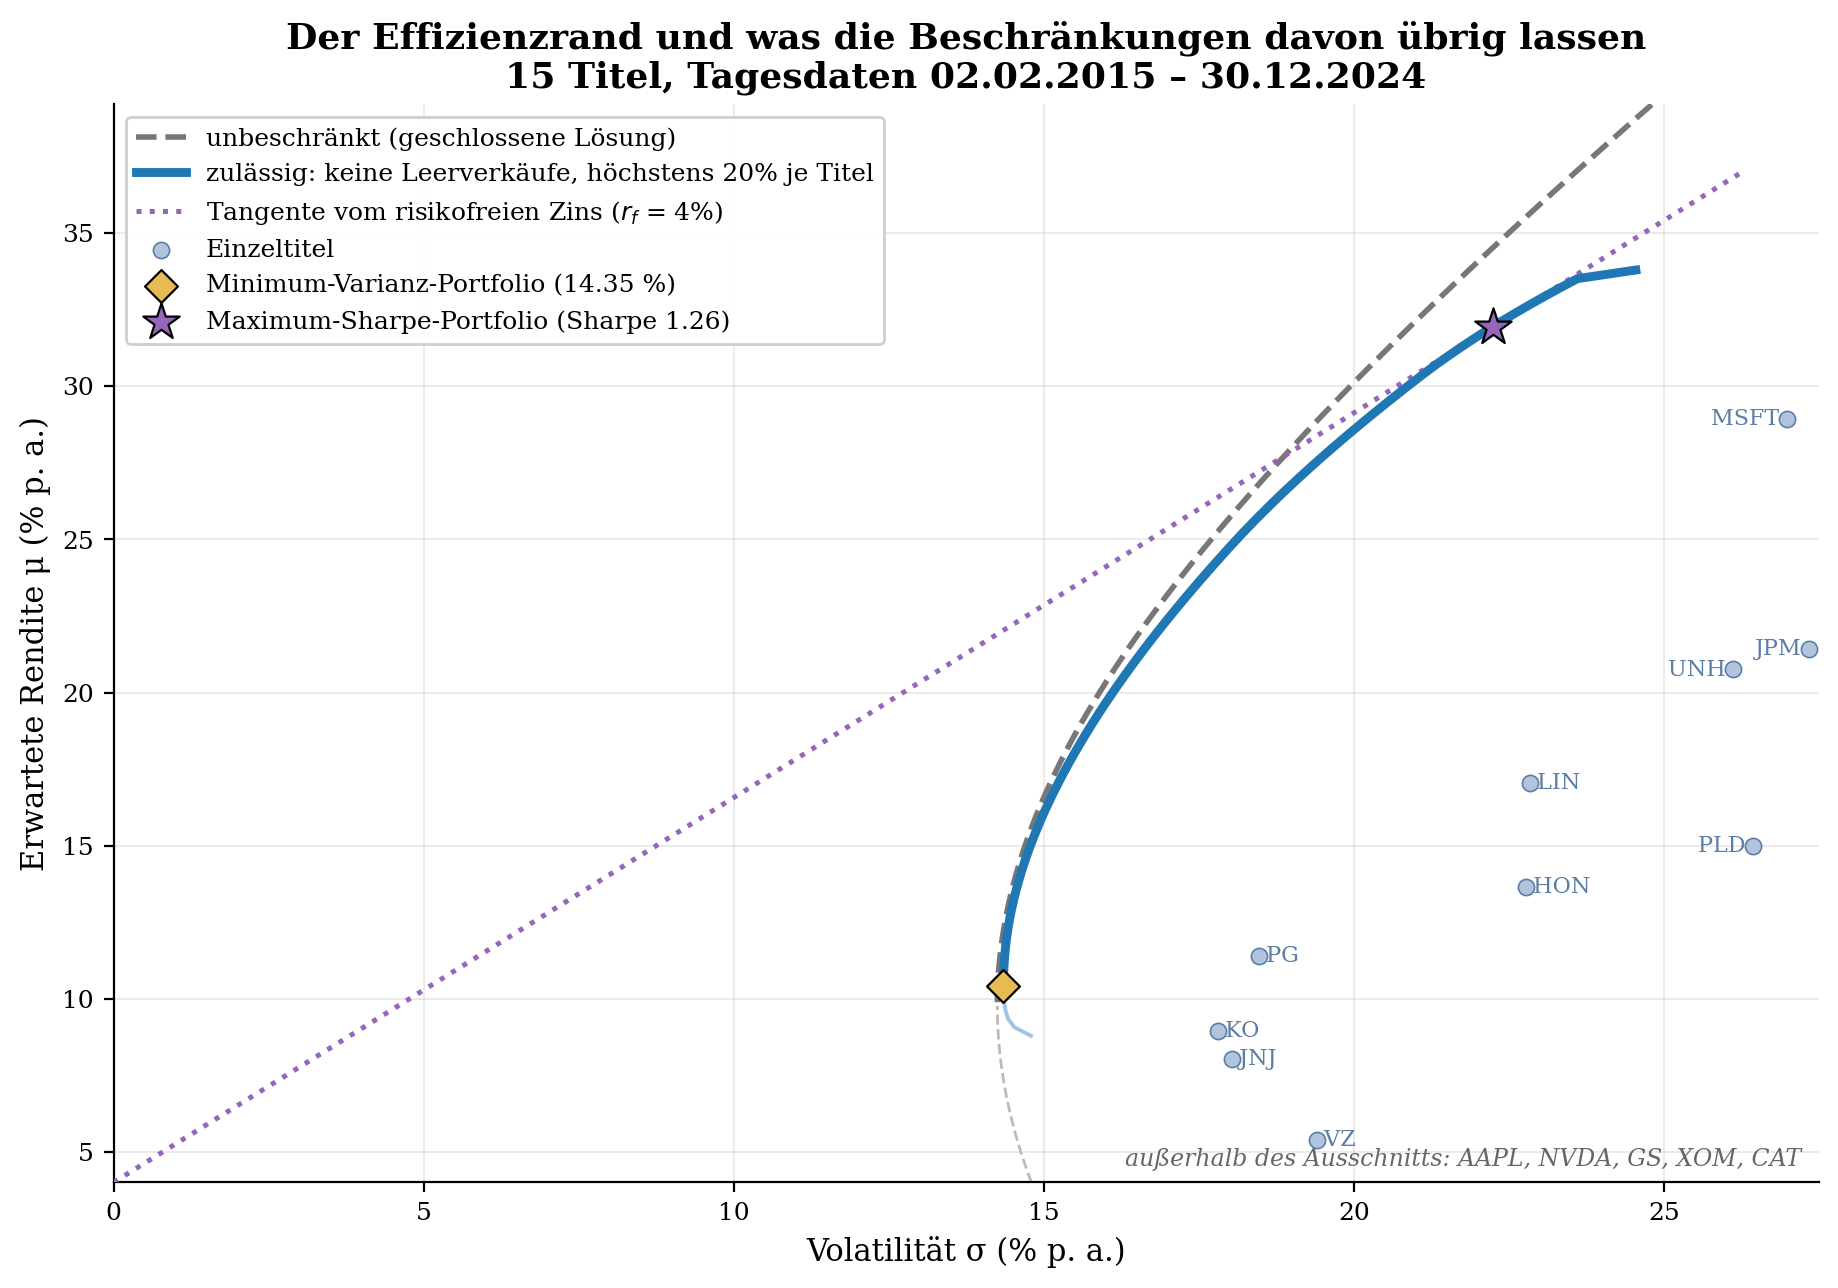
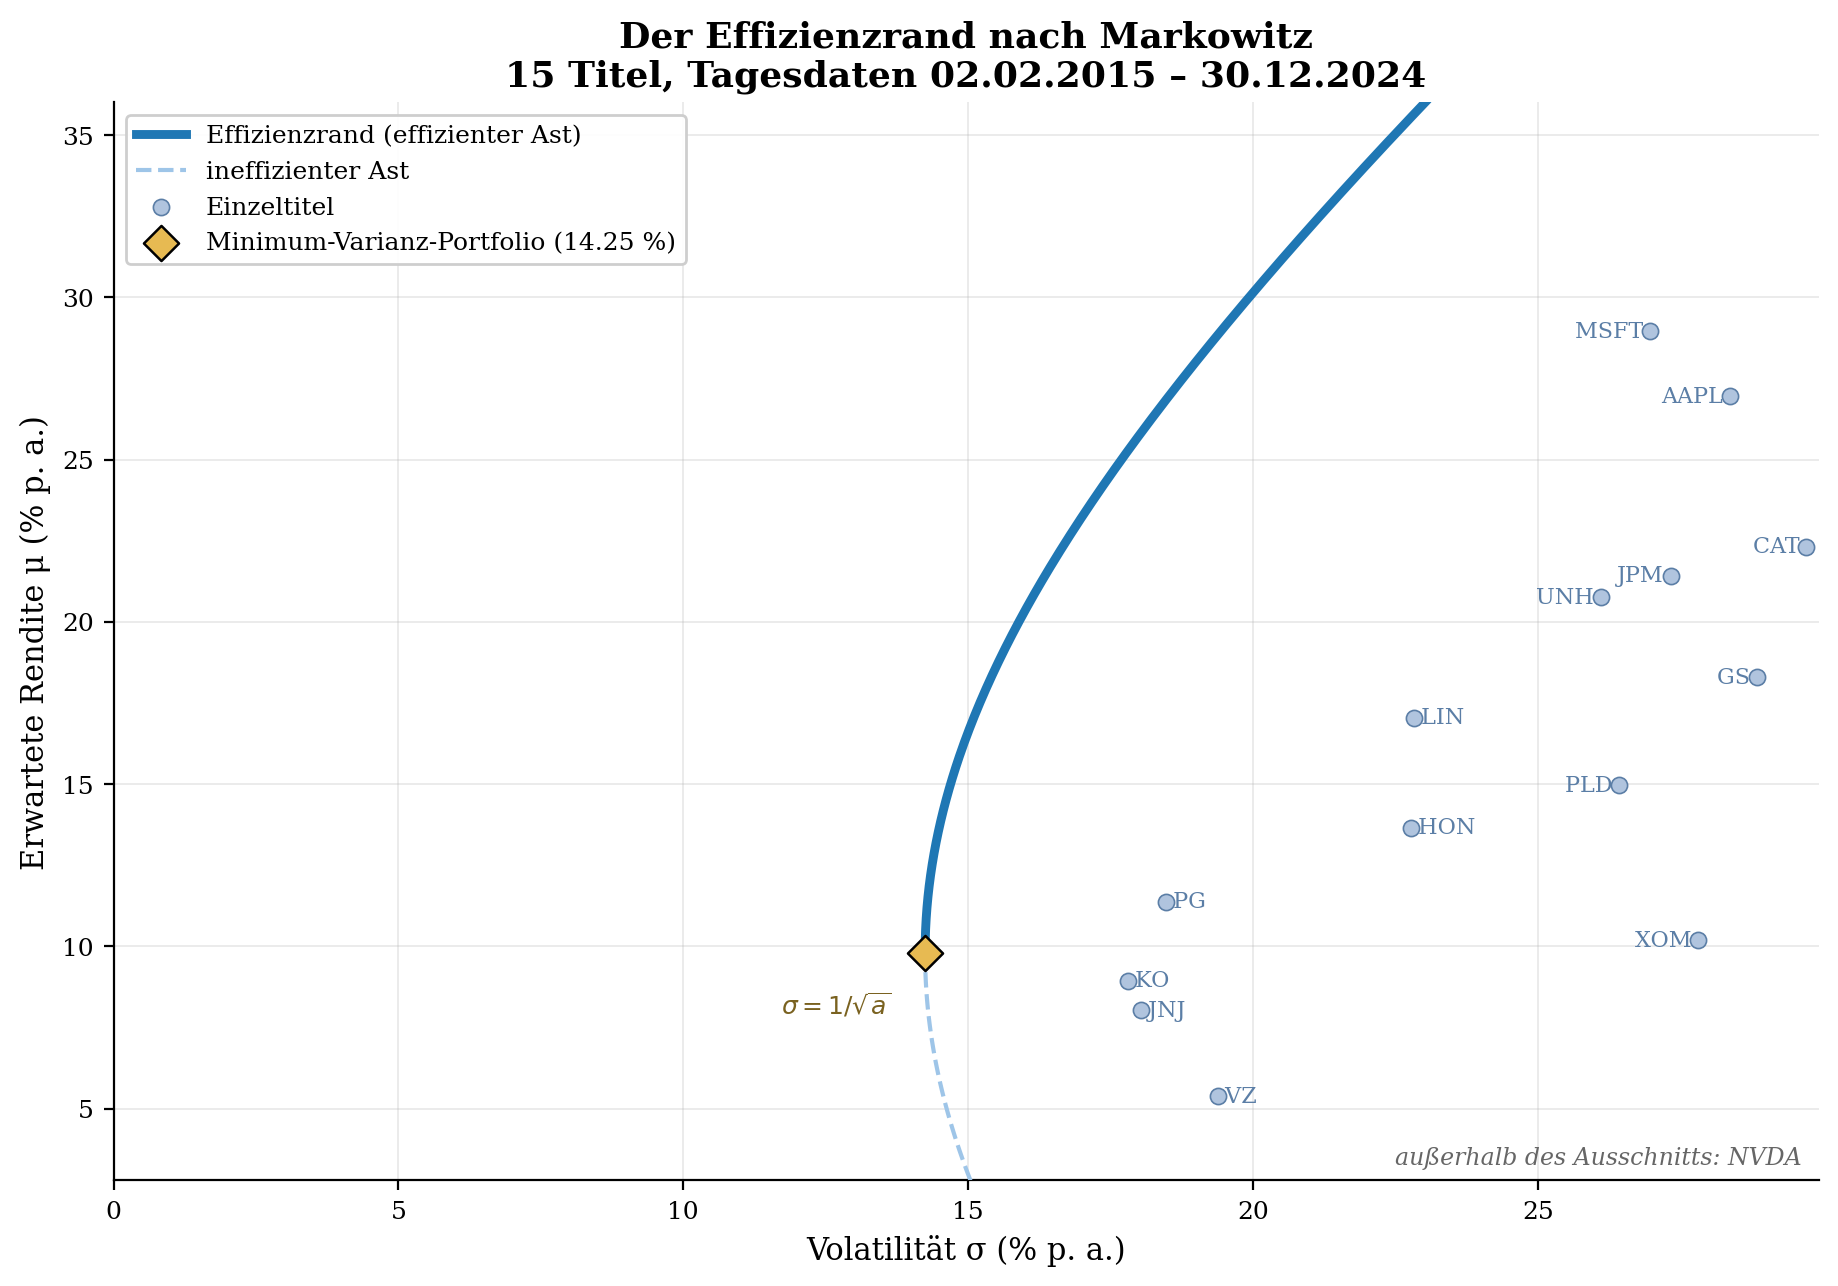
Effizienzrand in Par. 2.3 ohne Beschraenkungen darstellen
Die Abbildung zeigte bisher zwei Raender: den unbeschraenkten und den unter
long only + 20-%-Kappe. Das nahm vorweg, was der Text erst spaeter begruendet:
Par. 2.3 behandelt das klassische Markowitz-Problem, Leerverkaufsverbot und
Obergrenze werden erst in Par. 2.6 eingefuehrt — und dort nicht als technische
Randbedingung, sondern als Mittel gegen den Schaetzfehler (Jagannathan/Ma).

Die zweite Kurve trug zudem weniger, als sie versprach: Sie belegt die
Unzulaessigkeit der geschlossenen Loesung NICHT, denn die negativen Gewichte
(JPM -4,88 %, PLD -4,64 %) sind in Sigma-mu-Koordinaten gar nicht sichtbar.
Und da beide Raender fast aufeinanderliegen, haette der Unterschied im Text
erklaert werden muessen — in dem Abschnitt mit dem knappsten Budget des
Kapitels.

Jetzt: nur die Hyperbel der geschlossenen Loesung, effizienter Ast kraeftig,
ineffizienter duenn, das Minimum-Varianz-Portfolio als linkester Punkt mit der
Beschriftung sigma = 1/sqrt(a) — direkt anschlussfaehig an die Formel im Text.

Der Vergleich bleibt als Schalter erhalten (show_constrained=True), falls er
fuer Par. 2.6 oder den Anhang gebraucht wird.

Keine Kapitalmarktlinie mehr: Das Tangentialportfolio dieser Daten liegt bei
52,8 % Volatilitaet und verlangt Leerverkaeufe bis -79 %. Als Zahl im Text sagt
das mehr als eine Linie, deren Beruehrpunkt ausserhalb des Bildes liegt.

Nebenwirkung: Der Ausschnitt richtet sich jetzt nach der Kurve statt nach dem
[…]

diff --git a/portfolio/theory_plots.py b/portfolio/theory_plots.py
@@ -1,9 +1,9 @@
 """
-Die drei Theorie-Abbildungen zu Kapitel 2 der Seminararbeit.
+Die vier Theorie-Abbildungen zu Kapitel 2 der Seminararbeit.
 
 FÜR EINSTEIGER — WAS MACHT DIESE DATEI?
 Die übrigen Abbildungen des Projekts (in ``plots.py``) zeigen ERGEBNISSE:
-wie sich die vier Strategien geschlagen haben. Die drei Bilder hier zeigen
+wie sich die vier Strategien geschlagen haben. Die Bilder hier zeigen
 dagegen keine Strategie, sondern EIGENSCHAFTEN DER KURSDATEN SELBST — also
 Dinge, die schon feststehen, bevor irgendeine Strategie gerechnet wird.
 
@@ -26,6 +26,12 @@ mit denen später auch der Backtest läuft:
       Für jede Aktie die geschätzte Jahresrendite samt 95-%-Konfidenz-
       intervall. Zeigt, wie ungenau Erwartungswerte selbst aus zehn
       Jahren Tagesdaten geschätzt sind — das Kernproblem der Arbeit.
+
+  17  Effizienzrand         → § 2.3, Abbildung 2 der Arbeit
+      Die Hyperbel der geschlossenen Lösung mit dem Minimum-Varianz-
+      Portfolio als linkestem Punkt. Bewusst OHNE die Beschränkungen der
+      Arbeit: § 2.3 behandelt das klassische Problem, Leerverkaufsverbot
+      und Obergrenze folgen erst in § 2.6.
 
 WARUM DIESE DATEI ÜBERHAUPT ENTSTAND
 Die drei Bilder lagen bis zum 17.08.2026 nur als fertige PNG-Dateien im
@@ -291,7 +297,7 @@ def plot_estimation_uncertainty(asset_returns: pd.DataFrame,
 
 def plot_efficient_frontier_theory(asset_returns: pd.DataFrame,
                                    output_path: str,
-                                   rf: float = RISK_FREE_RATE,
+                                   show_constrained: bool = False,
                                    max_weight: float = 0.20,
                                    n_points: int = 90) -> None:
     """Abbildung 17 → Abbildung 2 der Arbeit (§ 2.3): der Effizienzrand.
@@ -299,147 +305,119 @@ def plot_efficient_frontier_theory(asset_returns: pd.DataFrame,
     ACHTUNG — NICHT verwechseln mit ``plot_efficient_frontier`` in plots.py.
     Jene Abbildung (04) gehört zum ERGEBNISTEIL: Sie zeichnet die Schätzungen
     des letzten Backtest-Monats und trägt die vier Strategien ein. Diese hier
-    ist eine reine THEORIEABBILDUNG: derselbe Auswertungszeitraum wie der übrige
-    Kapitel 2, keine Strategien, keine Kennzahlenlegende.
+    ist eine reine THEORIEABBILDUNG zum allgemeinen Markowitz-Problem: derselbe
+    Auswertungszeitraum wie der übrige Kapitel 2, keine Strategien, keine
+    Kennzahlenlegende.
 
-    Gezeigt werden zwei Ränder, und ihr Unterschied ist die Pointe von § 2.3:
+    GEZEIGT WIRD DIE GESCHLOSSENE LÖSUNG, also der Rand unter der einzigen
+    Nebenbedingung, dass die Gewichte sich zu eins summieren:
 
-    1. Der UNBESCHRÄNKTE Rand (gestrichelt) folgt der geschlossenen Lösung
-           sigma^2(mu) = (a mu^2 - 2 b mu + c) / d
-       mit a = 1'S^-1 1, b = 1'S^-1 mu, c = mu'S^-1 mu, d = ac - b^2.
-       Er ist eine Hyperbel und läuft nach oben wie nach unten unbegrenzt weiter.
+        sigma^2(mu) = (a mu^2 - 2 b mu + c) / d
+        mit a = 1'S^-1 1,  b = 1'S^-1 mu,  c = mu'S^-1 mu,  d = ac - b^2
 
-    2. Der ZULÄSSIGE Rand (durchgezogen) erfüllt zusätzlich die Beschränkungen
-       dieser Arbeit: keine Leerverkäufe und höchstens ``max_weight`` je Titel.
-       Er wird numerisch gelöst (SLSQP), weil es dafür keine geschlossene Formel
-       mehr gibt.
+    Das ist eine Hyperbel. Ihr linkester Punkt ist das Minimum-Varianz-Portfolio
+    mit sigma = 1/sqrt(a) und mu = b/a. Oberhalb davon liegen die EFFIZIENTEN
+    Portfolios (kräftig gezeichnet), unterhalb die ineffizienten (dünn): Zu jedem
+    von ihnen gibt es ein Portfolio mit gleichem Risiko und höherer Rendite.
 
-    Der auffällige Unterschied ist nicht die LAGE der Kurven — die liegen fast
-    aufeinander —, sondern ihre LÄNGE: Die Obergrenze von 20 % je Titel kappt
-    den erreichbaren Renditebereich, weil sich das Vermögen nicht mehr auf die
-    wenigen Titel mit der höchsten Rendite konzentrieren lässt.
+    WARUM OHNE BESCHRÄNKUNGEN?
+    § 2.3 behandelt das klassische Problem. Leerverkaufsverbot und Obergrenze
+    je Titel werden erst in § 2.6 eingeführt — dort als Mittel gegen den
+    Schätzfehler, nicht als technische Randbedingung. Eine Abbildung, die sie
+    vorwegnähme, erklärte in Kapitel 2 etwas, das der Text erst drei Abschnitte
+    später begründet. Wer den Vergleich dennoch braucht (etwa für § 2.6 oder den
+    Anhang), setzt ``show_constrained=True``: dann kommt der zulässige Rand als
+    zweite Kurve hinzu. Der Unterschied liegt weniger in der Lage der Kurven —
+    sie liegen fast aufeinander — als in ihrer Länge, weil die Obergrenze den
+    erreichbaren Renditebereich beschneidet.
 
-    Statt der Lehrbuch-Kapitalmarktlinie (deren Tangentialportfolio hier
-    Leerverkäufe von −79 % verlangte und weit außerhalb des Bildes läge) wird
-    die Gerade vom risikofreien Zins zum Maximum-Sharpe-Punkt des ZULÄSSIGEN
-    Randes gezeichnet. Der Unterschied gehört in den Text.
+    KEINE KAPITALMARKTLINIE. Das Tangentialportfolio dieser Daten liegt bei
+    rund 53 % Volatilität und verlangt Leerverkäufe bis −79 %; es läge weit
+    ausserhalb jedes brauchbaren Ausschnitts. Diese Zahlen gehören als Satz in
+    den Text — dort sagen sie mehr als eine Linie, die aus dem Bild läuft.
     """
     log.info("Theorieplot 17: Effizienzrand …")
     mu_v, sigma, cov, _ = _annualised_moments(asset_returns)
-    mu_a = mu_v.values
-    S = cov.values
+    mu_a, S = mu_v.values, cov.values
     n = len(mu_a)
     one = np.ones(n)
 
-    # ---- 1. Unbeschränkter Rand: geschlossene Lösung -------------------
+    # ---- Geschlossene Lösung: die vier Skalare und das MVP --------------
     S_inv = np.linalg.inv(S)
     a = one @ S_inv @ one
     b = one @ S_inv @ mu_a
     c = mu_a @ S_inv @ mu_a
     d = a * c - b * b
-    mu_mvp_un, sig_mvp_un = b / a, np.sqrt(1.0 / a)
+    mu_mvp, sig_mvp = b / a, np.sqrt(1.0 / a)
 
-    # ---- 2. Zulässiger Rand: numerisch, mit den Beschränkungen ---------
-    # Erreichbarer Renditebereich unter der Obergrenze: Mit einer Kappe von
-    # 20 % lassen sich höchstens die fünf besten (bzw. schlechtesten) Titel
-    # zu je 20 % halten — das begrenzt mu nach oben und unten.
-    k = int(np.ceil(1.0 / max_weight))
-    mu_sort = np.sort(mu_a)
-    mu_lo, mu_hi = mu_sort[:k].mean(), mu_sort[-k:].mean()
-
-    bounds = [(0.0, max_weight)] * n
-    eq_sum = {"type": "eq", "fun": lambda w: w.sum() - 1.0}
-    ziele, rand_sig, rand_mu = np.linspace(mu_lo, mu_hi, n_points), [], []
-    for ziel in ziele:
-        cons = (eq_sum, {"type": "eq", "fun": lambda w, z=ziel: w @ mu_a - z})
-        res = minimize(lambda w: w @ S @ w, one / n, method="SLSQP",
-                       bounds=bounds, constraints=cons,
-                       options={"ftol": 1e-12, "maxiter": 800})
-        if res.success:
-            rand_sig.append(np.sqrt(res.fun))
-            rand_mu.append(ziel)
-    rand_sig, rand_mu = np.array(rand_sig), np.array(rand_mu)
-
-    # Minimum-Varianz- und Maximum-Sharpe-Punkt des zulässigen Randes
-    res_mvp = minimize(lambda w: w @ S @ w, one / n, method="SLSQP",
-                       bounds=bounds, constraints=(eq_sum,),
-                       options={"ftol": 1e-12, "maxiter": 800})
-    sig_mvp, mu_mvp = np.sqrt(res_mvp.fun), res_mvp.x @ mu_a
-    res_tan = minimize(lambda w: -(w @ mu_a - rf) / np.sqrt(w @ S @ w),
-                       one / n, method="SLSQP", bounds=bounds,
-                       constraints=(eq_sum,), options={"ftol": 1e-12, "maxiter": 800})
-    sig_tan, mu_tan = np.sqrt(res_tan.x @ S @ res_tan.x), res_tan.x @ mu_a
-
-    # ---- 3. Zeichnen ---------------------------------------------------
     fig, ax = plt.subplots(figsize=(11, 7))
 
-    # Ausschnitt: am zulässigen Rand ausgerichtet. Die volatilsten Titel liegen
-    # bewusst ausserhalb — sie würden die Kurve sonst ins linke Fünftel drängen.
-    x_max = max(rand_sig.max(), sig_tan) * 100 * 1.12
-    y_min, y_max = 4.0, mu_hi * 100 * 1.16
+    # ---- Ausschnitt -----------------------------------------------------
+    # An der Hyperbel ausgerichtet: vom MVP aus so weit nach oben, dass der
+    # Bogen gut sichtbar ist. Die volatilsten Titel liegen bewusst ausserhalb —
+    # sie würden die Kurve sonst ins linke Fünftel drängen.
+    y_max = 36.0
+    y_min = max(0.0, mu_mvp * 100 - 7.0)
+    mu_g = np.linspace(y_min / 100, y_max / 100, 400)
+    sig_g = np.sqrt((a * mu_g ** 2 - 2 * b * mu_g + c) / d)
+    x_max = sig_g.max() * 100 * 1.30
 
-    # Beide Ränder bestehen aus zwei Ästen: oberhalb des Minimum-Varianz-Punktes
-    # liegen die EFFIZIENTEN Portfolios (mehr Rendite bei gleichem Risiko gibt es
-    # nicht), unterhalb die ineffizienten — zu jedem von ihnen existiert ein
-    # Portfolio mit gleichem Risiko und höherer Rendite. Deshalb wird der obere
-    # Ast kräftig und der untere nur dünn gezeichnet: Gegenstand von § 2.3 ist
-    # der obere.
-    mu_un = np.linspace(y_min / 100, y_max / 100, 300)
-    sig_un = np.sqrt((a * mu_un ** 2 - 2 * b * mu_un + c) / d)
-    ob_un = mu_un >= mu_mvp_un
-    ax.plot(sig_un[ob_un] * 100, mu_un[ob_un] * 100, color="#777777", linestyle="--",
-            linewidth=2.0, label="unbeschränkt (geschlossene Lösung)", zorder=2)
-    ax.plot(sig_un[~ob_un] * 100, mu_un[~ob_un] * 100, color="#bbbbbb", linestyle="--",
-            linewidth=1.0, zorder=2)
+    # ---- Der Rand: effizienter Ast kräftig, ineffizienter dünn ----------
+    ob = mu_g >= mu_mvp
+    ax.plot(sig_g[ob] * 100, mu_g[ob] * 100, color="#1f77b4", linewidth=3.2,
+            label="Effizienzrand (effizienter Ast)", zorder=4)
+    ax.plot(sig_g[~ob] * 100, mu_g[~ob] * 100, color="#9ec5e8", linewidth=1.5,
+            linestyle="--", label="ineffizienter Ast", zorder=4)
 
-    ob = rand_mu >= mu_mvp
-    ax.plot(rand_sig[ob] * 100, rand_mu[ob] * 100, color="#1f77b4", linewidth=3.2,
-            label=f"zulässig: keine Leerverkäufe, höchstens {max_weight:.0%} je Titel",
-            zorder=4)
-    ax.plot(rand_sig[~ob] * 100, rand_mu[~ob] * 100, color="#9ec5e8", linewidth=1.4,
-            zorder=4)
+    # ---- Optional: der Rand unter den Beschränkungen der Arbeit ---------
+    if show_constrained:
+        k = int(np.ceil(1.0 / max_weight))
+        mu_sort = np.sort(mu_a)
+        bounds = [(0.0, max_weight)] * n
+        eq_sum = {"type": "eq", "fun": lambda w: w.sum() - 1.0}
+        zs, ss = [], []
+        for ziel in np.linspace(mu_sort[:k].mean(), mu_sort[-k:].mean(), n_points):
+            cons = (eq_sum, {"type": "eq", "fun": lambda w, z=ziel: w @ mu_a - z})
+            res = minimize(lambda w: w @ S @ w, one / n, method="SLSQP",
+                           bounds=bounds, constraints=cons,
+                           options={"ftol": 1e-12, "maxiter": 800})
+            if res.success:
+                ss.append(np.sqrt(res.fun)); zs.append(ziel)
+        ax.plot(np.array(ss) * 100, np.array(zs) * 100, color="#d62728",
+                linewidth=2.2, zorder=3,
+                label=f"zulässig: long only, höchstens {max_weight:.0%} je Titel")
 
-    # Gerade vom risikofreien Zins zum Maximum-Sharpe-Punkt des zulässigen Randes.
-    # Sie berührt den Rand und schneidet ihn nicht — numerisch geprüft.
-    ax.plot([0, sig_tan * 100 * 1.18], [rf * 100, rf * 100 + (mu_tan - rf) * 1.18 * 100],
-            color="#9467bd", linestyle=":", linewidth=1.8,
-            label=f"Tangente vom risikofreien Zins ($r_f$ = {rf:.0%})", zorder=3)
-
-    # Einzeltitel, blass im Hintergrund
+    # ---- Einzeltitel ----------------------------------------------------
     ax.scatter(sigma.values * 100, mu_a * 100, s=34, color="#b0c4de",
                edgecolor="#5b7ea6", linewidth=0.6, zorder=5, label="Einzeltitel")
     draussen = []
     for t, s_i, m_i in zip(mu_v.index, sigma.values, mu_a):
-        if s_i * 100 > x_max or m_i * 100 > y_max:
+        if s_i * 100 > x_max or m_i * 100 > y_max or m_i * 100 < y_min:
             draussen.append(t)
         elif s_i * 100 > 0.86 * x_max:
-            # Titel nahe am rechten Rand: Kürzel nach LINKS setzen, sonst
-            # ragt die Beschriftung aus dem Bild.
             ax.annotate(f"{t} ", (s_i * 100, m_i * 100), fontsize=8,
                         color="#5b7ea6", va="center", ha="right", zorder=5)
         else:
             ax.annotate(f" {t}", (s_i * 100, m_i * 100), fontsize=8,
                         color="#5b7ea6", va="center", zorder=5)
 
-    # Die beiden ausgezeichneten Punkte des zulässigen Randes
-    ax.scatter([sig_mvp * 100], [mu_mvp * 100], marker="D", s=70, color="#e7ba52",
-               edgecolor="black", linewidth=0.8, zorder=6,
+    # ---- Das Minimum-Varianz-Portfolio ----------------------------------
+    ax.scatter([sig_mvp * 100], [mu_mvp * 100], marker="D", s=80, color="#e7ba52",
+               edgecolor="black", linewidth=0.9, zorder=6,
                label=f"Minimum-Varianz-Portfolio ({sig_mvp*100:.2f} %)")
-    ax.scatter([sig_tan * 100], [mu_tan * 100], marker="*", s=190, color="#9467bd",
-               edgecolor="black", linewidth=0.8, zorder=6,
-               label=f"Maximum-Sharpe-Portfolio (Sharpe {(mu_tan-rf)/sig_tan:.2f})")
+    ax.annotate(rf"$\sigma = 1/\sqrt{{a}}$", (sig_mvp * 100, mu_mvp * 100),
+                xytext=(-12, -22), textcoords="offset points", fontsize=9,
+                color="#7a6220", ha="right", zorder=6)
 
     ax.set_xlim(0, x_max)
     ax.set_ylim(y_min, y_max)
-    ax.set_title("Der Effizienzrand und was die Beschränkungen davon übrig lassen\n"
-                 f"{len(asset_returns.columns)} Titel, Tagesdaten "
+    ax.set_title("Der Effizienzrand nach Markowitz\n"
+                 f"{n} Titel, Tagesdaten "
                  f"{asset_returns.index[0]:%d.%m.%Y} – {asset_returns.index[-1]:%d.%m.%Y}",
                  fontweight="bold")
     ax.set_xlabel("Volatilität σ (% p. a.)")
     ax.set_ylabel("Erwartete Rendite μ (% p. a.)")
     ax.grid(alpha=0.3)
-    # Legende oben links: dort ist die Fläche leer, weil der Rand von links
-    # unten nach rechts oben verläuft.
     ax.legend(loc="upper left", framealpha=0.95, fontsize=9)
 
     if draussen:
@@ -450,11 +428,8 @@ def plot_efficient_frontier_theory(asset_returns: pd.DataFrame,
     plt.savefig(output_path, dpi=200, bbox_inches="tight")
     plt.close()
 
-    log.info(f"  MVP zulässig {sig_mvp*100:.3f} % gegen geschlossen "
-             f"{sig_mvp_un*100:.3f} % | erreichbare Rendite {mu_lo*100:.2f}–{mu_hi*100:.2f} % "
-             f"| Max-Sharpe {(mu_tan-rf)/sig_tan:.3f}"
+    log.info(f"  a = {a:.3f} | MVP: mu = {mu_mvp*100:.2f} %, sigma = {sig_mvp*100:.3f} %"
              + (f" | ausserhalb: {', '.join(draussen)}" if draussen else ""))
-
 
 def create_theory_plots(asset_returns: pd.DataFrame, returns_df: pd.DataFrame,
                         output_dir: str) -> None:
